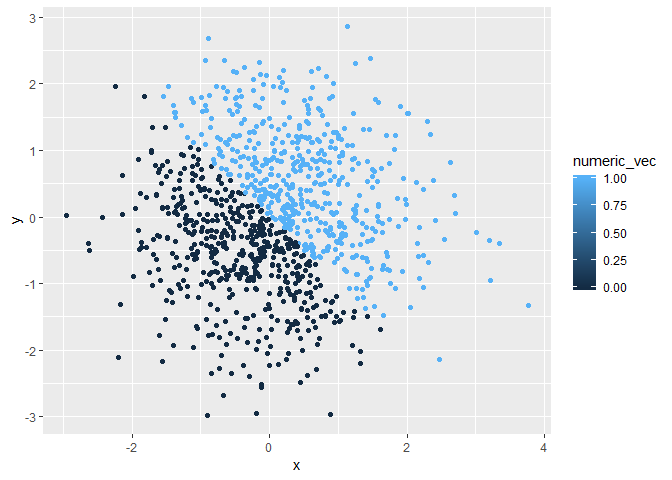
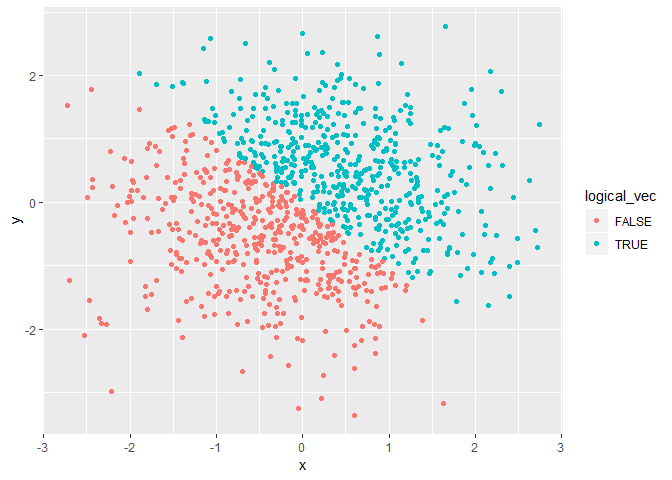
answering the last part of question 1, final commit

diff --git a/p8105_hw1_smi2112.md b/p8105_hw1_smi2112.md
@@ -1,8 +1,8 @@
 p8105\_hw1\_smi2112
 ================
 
-Question 1
-==========
+Problem 1
+=========
 
 Creating the data frame:
 
@@ -10,14 +10,14 @@ Creating the data frame:
 library(tidyverse)
 ```
 
-    ## -- Attaching packages ---------------------------------------------------------------------------------------------------- tidyverse 1.2.1 --
+    ## -- Attaching packages --------------------------------------------------- tidyverse 1.2.1 --
 
     ## v ggplot2 3.0.0     v purrr   0.2.5
     ## v tibble  1.4.2     v dplyr   0.7.6
     ## v tidyr   0.8.1     v stringr 1.3.1
     ## v readr   1.1.1     v forcats 0.3.0
 
-    ## -- Conflicts ------------------------------------------------------------------------------------------------------- tidyverse_conflicts() --
+    ## -- Conflicts ------------------------------------------------------ tidyverse_conflicts() --
     ## x dplyr::filter() masks stats::filter()
     ## x dplyr::lag()    masks stats::lag()
 
@@ -36,13 +36,13 @@ Attempting to take the mean of each variable in the data frame:
 mean(question_one_df$random_samp)
 ```
 
-    ## [1] 2.256764
+    ## [1] 2.414569
 
 ``` r
 mean(question_one_df$logical_vec)
 ```
 
-    ## [1] 0.5
+    ## [1] 0.6
 
 ``` r
 mean(question_one_df$char_vec)
@@ -62,11 +62,25 @@ mean(question_one_df$factor_vec)
 
     ## [1] NA
 
-The mean of the random sample is 2.256764, and the mean of the logical vector is 0.5.
+The mean of the random sample is 2.4145689, and the mean of the logical vector is 0.6. The mean of the random sample works because the vector is made up of numbers generated by the runif() function, and r is able to take the mean of numbers. The mean of the logical vector also works because the logical vector codes TRUE statements as 1 and FALSE statements as 0. The mean of the 1's and 0's is taken. The mean of the character vector and the factor vector do not work becuase they are not numbers.
 
-The mean of the random sample works because the vector is made up of numbers generated by the runif() function, and r is able to take the mean of numbers. The mean of the logical vector also works because the logical vector codes TRUE statements as 1 and FALSE statements as 0. The mean of the 1's and 0's is taken.
+Coercing variables to numeric form:
 
-The mean of the character vector and the factor vector do not work becuase they are not numbers.
+``` r
+logical_vec_num = as.numeric(question_one_df$logical_vec)
+char_vec_num = as.numeric(question_one_df$logical_vec)
+factor_vec_num = as.numeric(question_one_df$logical_vec)
+```
+
+The new numeric variables are just composed of 0s and 1s. For the logical vector, 1 was assigned to TRUE and 0 was assigned to FALSE. For the character and factor vector, the coercion did not yield a meaningful numeric variable.
+
+Coercing character variable from character to factor to numeric:
+
+``` r
+char_vec_num2 = as.numeric(as.factor(question_one_df$char_vec)) 
+```
+
+The new character vector was assigned numeric values between 1 and 10. The numbers don't appear to have any numeric meaning compared to the original character variable.
 
 Question 2
 ==========
@@ -83,7 +97,7 @@ question_two_df <- tibble(
 )
 ```
 
-The size of the dataset is 1000, 5. The mean of x is 0.0445512 and the median of x is 0.0266316. The proportion of cases for which the logical vector is true is 0.506.
+The size of the dataset is 1000, 5. The mean of x is -0.0089014 and the median of x is -0.017172. The proportion of cases for which the logical vector is true is 0.505.
 
 Creating the first scatterplot with color points using the logical variable, and exporting to the project directory:
 
@@ -91,7 +105,7 @@ Creating the first scatterplot with color points using the logical variable, and
 ggplot(question_two_df, aes(x = x, y = y, color = logical_vec)) + geom_point()
 ```
 
-![](p8105_hw1_smi2112_files/figure-markdown_github/unnamed-chunk-4-1.png)
+![](p8105_hw1_smi2112_files/figure-markdown_github/unnamed-chunk-6-1.png)
 
 ``` r
 ggsave("hw1_scatterplot.pdf")
@@ -105,7 +119,7 @@ Creating the second scatterplot with color points using the numeric variable:
 ggplot(question_two_df, aes(x = x, y = y, color = numeric_vec)) + geom_point()
 ```
 
-![](p8105_hw1_smi2112_files/figure-markdown_github/unnamed-chunk-5-1.png)
+![](p8105_hw1_smi2112_files/figure-markdown_github/unnamed-chunk-7-1.png)
 
 Creating the third scatterplot with color points using the factor variable:
 
@@ -113,7 +127,7 @@ Creating the third scatterplot with color points using the factor variable:
 ggplot(question_two_df, aes(x = x, y = y, color = factor_vec)) + geom_point()
 ```
 
-![](p8105_hw1_smi2112_files/figure-markdown_github/unnamed-chunk-6-1.png)
+![](p8105_hw1_smi2112_files/figure-markdown_github/unnamed-chunk-8-1.png)
 
 Commenting on the color scales of each scatterplot:
 
